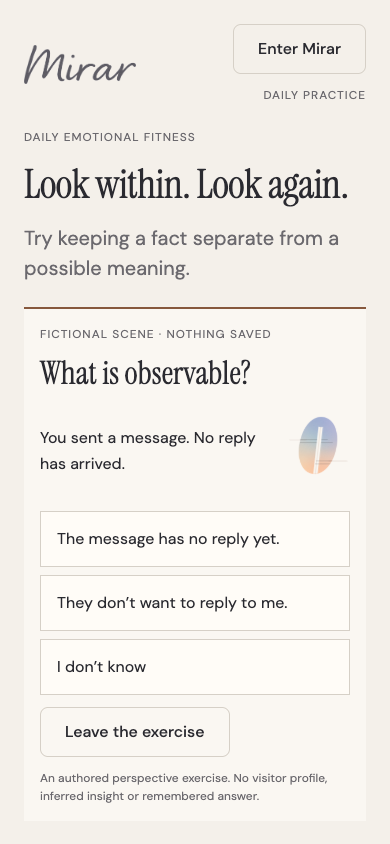
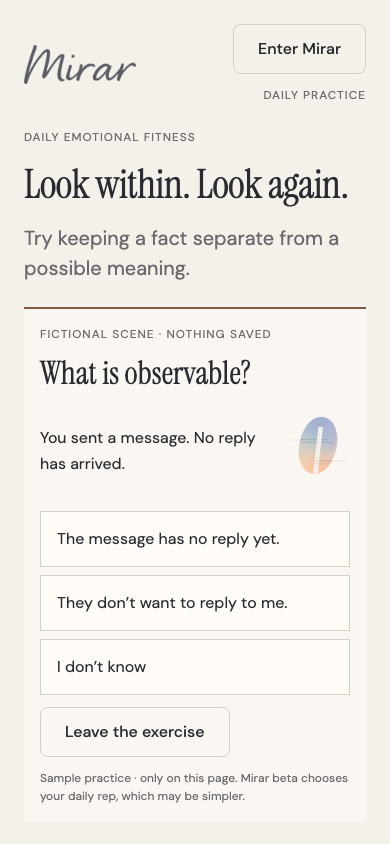
Reconcile Claude sample proposal and disclose beta capability boundary

Changed region(s): [[0.0923, 0.8934, 0.7077, 0.955], [0.7385, 0.8934, 0.8308, 0.9242], [0.8615, 0.8934, 0.8923, 0.9242]]

diff --git a/components/experience/PracticeSample.tsx b/components/experience/PracticeSample.tsx
@@ -55,7 +55,7 @@ export function PracticeSample({ onEnter }: {
  {reading && <View style={S.completed} accessibilityLiveRegion="polite"><SectionTitle>{openings[start].result}</SectionTitle><Body>{SAMPLE_VIEWS[reading].close}</Body><Body style={X.small}>You kept an observation separate from a possible meaning. This was not an assessment of you.</Body><View style={X.row}><Action onPress={onEnter}>Continue with Mirar</Action><Action secondary onPress={reset}>Try the exercise again</Action></View></View>}
  </>}
  {!left && <Action secondary onPress={() => setLeft(true)}>Leave the exercise</Action>}
- <Body style={S.privacy}>An authored perspective exercise. No visitor profile, inferred insight or remembered answer.</Body>
+ <Body style={S.privacy}>Sample practice · only on this page. Mirar beta chooses your daily rep, which may be simpler.</Body>
  </View>;
 }
 function Tile({ children, onPress, selected }: {

diff --git a/docs/experience/PRACTICE_SAMPLE_CONTRACT.md b/docs/experience/PRACTICE_SAMPLE_CONTRACT.md
@@ -94,3 +94,15 @@ Build: existing `npm run landing:review-build` for local checks. For Claude's ve
 ## Verified candidate evidence
 
 See [validation evidence](practice-sample-validation/README.md): 45 normal path checks across five sizes, 51 axe scans with zero violations/incomplete checks, 13 exit states, keyboard/reduced-motion checks and CTA arrival at the published login URL. TypeScript and review build pass. First-time visitor comprehension and Claude mechanic/content approval remain pending.
+
+## Reconciliation with Claude’s newly published sample spec
+
+Read completely: `origin/mirar-integration:docs/product/SAMPLE_EXERCISE_SPEC.md` at `78d12c4` (introduced in `1985735`). Its status is **specification for approval**, not an approved engine exercise. This candidate does not silently implement its proposed personal questionnaire.
+
+Agreements: demonstrate an operation; separate the public sample from the unbuilt Reframe catalog; no personal inference or efficacy attribution; no persistence, analytics or answer URL; preserve original-view legitimacy; no gesture-only input; live text carries all meaning; focus/live announcement and reduced motion; retain the inert fictional Honest Mirror study separately. The candidate now visibly states on every state that this sample lives only on this page and the beta chooses a daily rep that may be simpler. This is a concise disclosure rather than the spec’s longer exact sentence; Claude should review the wording before release.
+
+**Recommended difference requiring Claude’s product/content decision:** keep the fictional observation/meaning window rather than collecting a personal situation, before-weight, chosen frame and after-weight. Four successive self-reports risk recreating the repetitive questionnaire the user explicitly challenged. A before/after receipt can suggest an outcome even with a causality disclaimer; none is needed to demonstrate keeping evidence separate from a possible meaning. The spec’s “smaller than the waiting makes it feel” reading also supplies an unsupported explanation; “worth starting small” moves into advice, contrary to its own authoring rules. The fictional scene avoids drafting four personal frame sets whose fit we cannot know.
+
+Unknown differs intentionally: instead of ending immediately without practice, it offers a usable distinction between observable absence and an unknown reason, while retaining an immediate Leave option. The user asked for a meaningful unknown branch. No obligation to complete or settle an answer is added.
+
+No personal before/after weights, efficacy sentence, new catalog family or engine amendment is implemented. Human review must decide the public exercise before release. The preview shows the proposed alternative concretely, so the decision can be made from an operating experience rather than copy alone. `git merge-tree` confirms no textual conflicts with `78d12c4`; no branch merge was performed.
